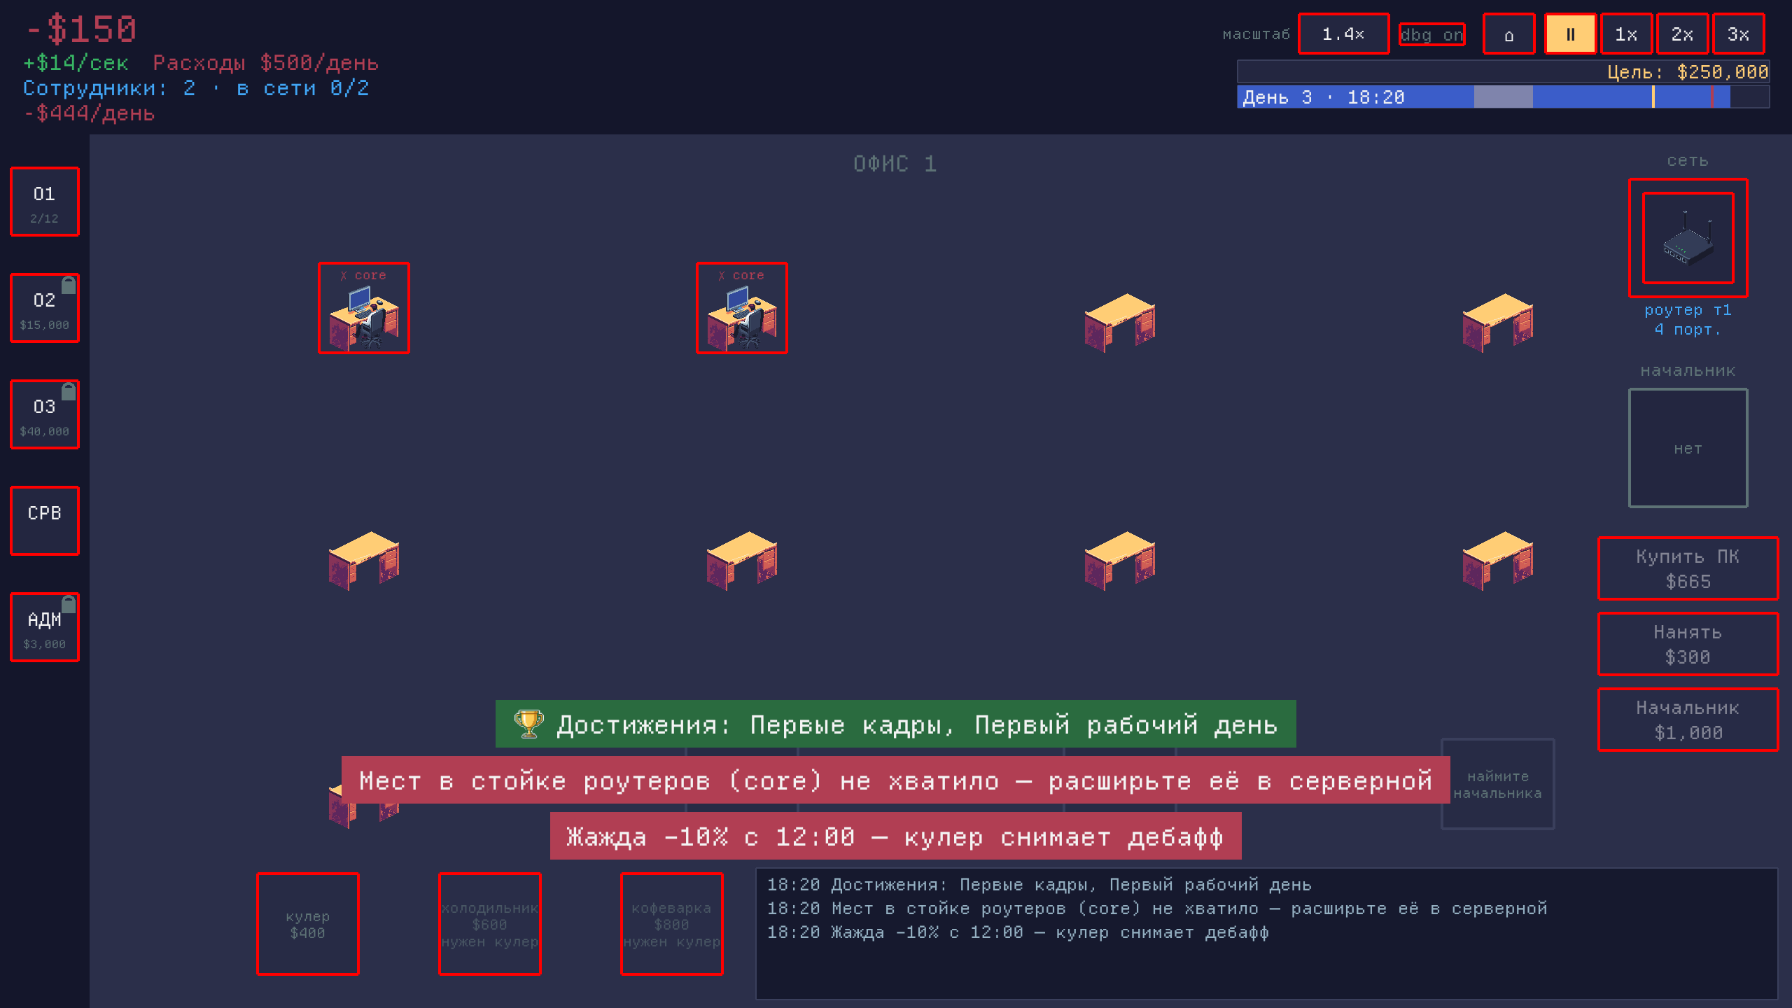
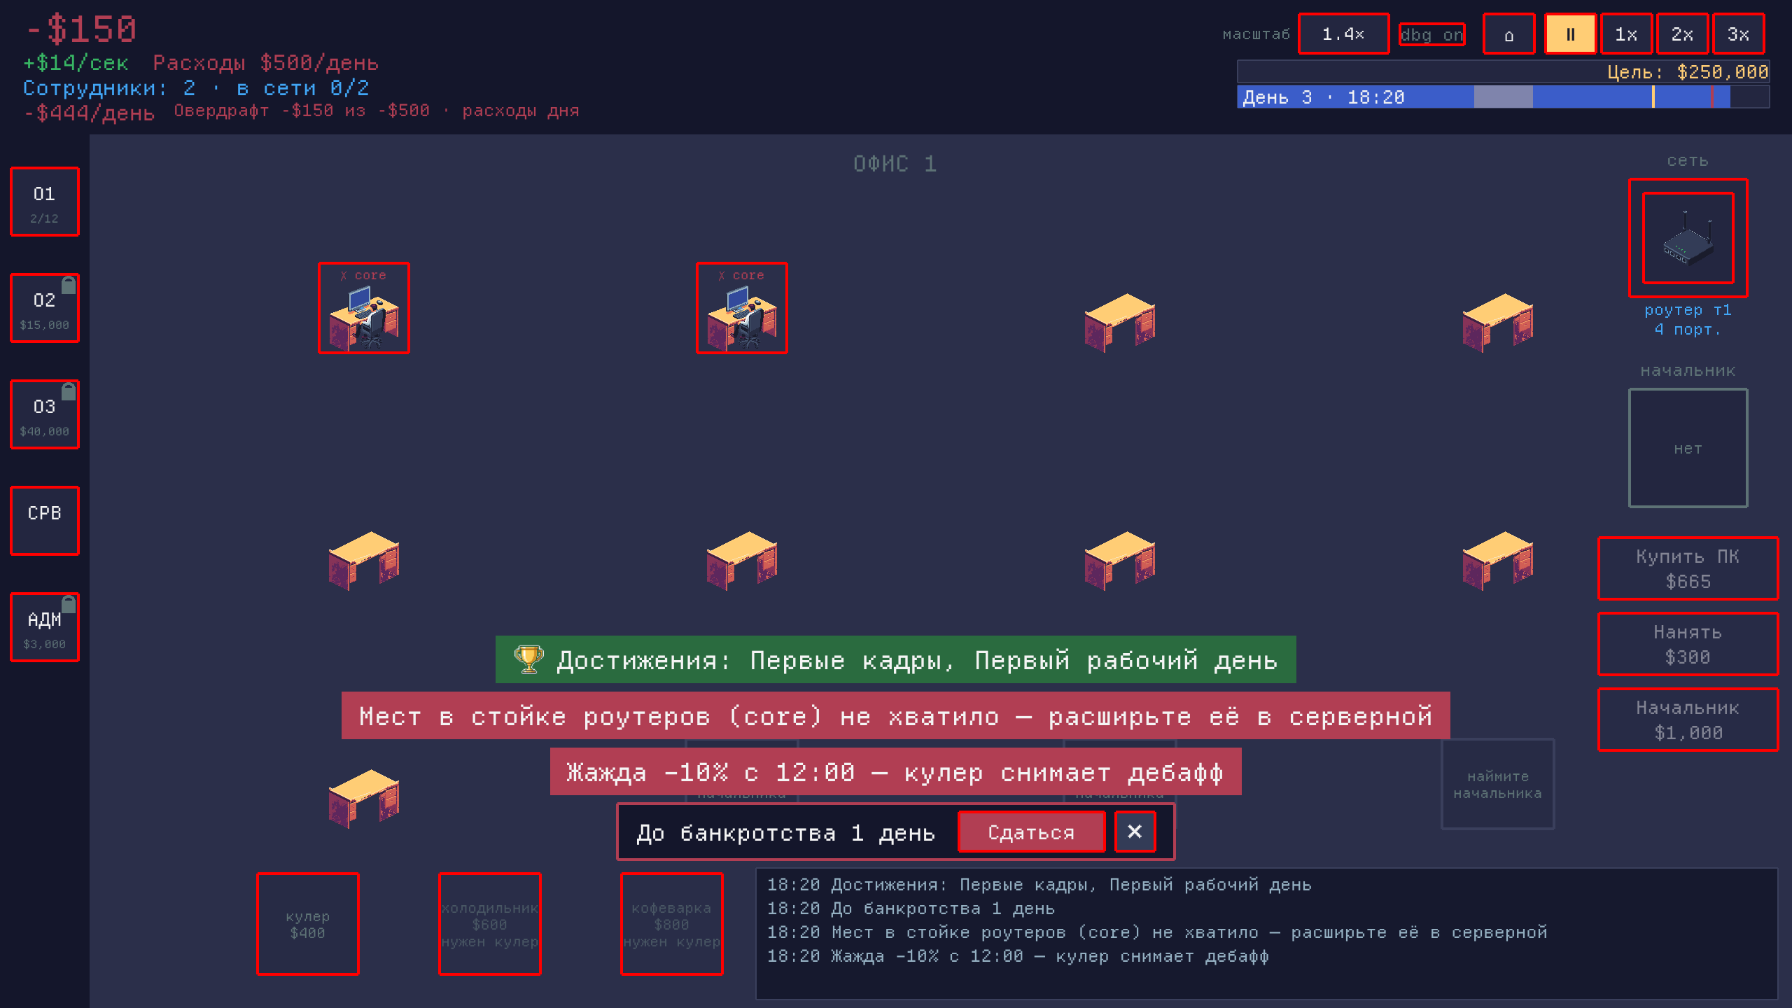
feat(client): the HUD shows the overdraft on Easy and Normal — «Овердрафт -$X из -$Y · расходы дня», and the doom plate counts down to bankruptcy there too — ITGAME-156 (owner 18.10)
hud.debt now reads state.debtLimit (new in protocol.ts): on a credit level the
line is unchanged («Долг -$X из -$Y · R%/день»), on Easy/Normal it is
«Овердрафт -$X из -$Y · расходы дня» with Y equal to the «Расходы $Y/день» row
above it, so the player sees where the limit comes from. The doom plate
(ITGAME-118) already follows state.bankruptInDays, which the server now sends
on every level.

The itd contract is regenerated 65151234bfa3 -> 7f1f8cbb56f0
(StateMessage.debtLimit); itd.state() is unchanged, QA reads
itd.server().snapshot.debtLimit.

qa:doom: D1 also pins the credit line on Hard, D7 is now Normal + doomed_debt
(creditLimit 0, debtLimit 750 = payrollPerDay, N = 1, the plate and the
overdraft line), D8 at -$100 N >= 2 and the line follows, D9 a live evening
from $400 at 18:50 — day_report, «19:00 овердрафт: долг $X из $750 (расходы
дня), без процентов» in hud.log and the report, interest 0, the book balanced
(9/9). qa:hud 429/429, qa:contract 17/17, npm test 30/30.

visreg: broke_day3 re-shot alone (Normal, -$150 at 18:20: the debt line and the
plate «До банкротства 1 день»; overlaps 0, offscreen 0, contrast 17, tiny 16);
the other scenarios are unchanged. development.md gets the qa:doom row in the
QA table. scripts/live-check-difficulty2.mjs checks debtLimit (not run: it needs
a live server).

diff --git a/client/src/scenes/HUDScene.ts b/client/src/scenes/HUDScene.ts
@@ -279,7 +279,7 @@ export class HUDScene extends Phaser.Scene {
         .setOrigin(1, 0),
       'hud.market',
     )
-    // Долг по кредиту (сложность 2.0): виден только в минусе. Строки нижних
+    // Долг (кредит — сложность 2.0, овердрафт — ITGAME-156): виден только в минусе. Строки нижних
     // рядов раскладываются по ширинам в layoutPanel() (ITGAME-16) — стартовые
     // x/y здесь косметические, до первого layoutPanel().
     this.debtText = tag(this.add.text(170, 84, '', {
@@ -899,9 +899,11 @@ export class HUDScene extends Phaser.Scene {
     } else {
       this.marketText.setText('')
     }
-    // Долг: минус в кредитных уровнях — не приговор, но проценты капают.
-    if (s.money < 0 && s.creditLimit > 0) {
-      this.debtText.setText(`Долг ${fmtMoney(s.money)} из ${fmtMoney(-s.creditLimit)} · ${s.creditRatePct}%/день`)
+    // Долг: минус на любом уровне — не приговор до порога state.debtLimit (сервер): на
+    // кредите капают проценты, на овердрафте (легко, норма) порог — расходы дня (ITGAME-156).
+    if (s.money < 0 && s.debtLimit > 0) {
+      const tail = s.creditLimit > 0 ? `${s.creditRatePct}%/день` : 'расходы дня'
+      this.debtText.setText(`${s.creditLimit > 0 ? 'Долг' : 'Овердрафт'} ${fmtMoney(s.money)} из ${fmtMoney(-s.debtLimit)} · ${tail}`)
     } else {
       this.debtText.setText('')
     }
@@ -1020,9 +1022,9 @@ export class HUDScene extends Phaser.Scene {
     this.eventUI = []
   }
 
-  // Плашка обречённой партии (ITGAME-118): сервер шлёт state.bankruptInDays > 0, когда на
-  // уровне с кредитом баланс в минусе (ни купить, ни уволить), а доход не покрывает ФОТ и
-  // проценты. Встаёт раз в день — с первым снапшотом дня, — висит до «×» или «Сдаться»;
+  // Плашка обречённой партии (ITGAME-118): сервер шлёт state.bankruptInDays > 0, когда
+  // баланс в минусе (кредит или овердрафт, ITGAME-156; ни купить, ни уволить), а доход не
+  // покрывает расходы до порога. Встаёт раз в день — с первым снапшотом дня, — висит до «×» или «Сдаться»;
   // отчёт дня, финал и сброс партии её снимают. Не модальная: игра идёт. Стоит над журналом,
   // а не сверху — там панель события; нижние тосты поднимаются над ней (layoutToasts).
   private updateDoom(s: StateMessage) {

diff --git a/client/src/protocol.ts b/client/src/protocol.ts
@@ -145,6 +145,7 @@ export interface StateMessage {
   marketTomorrow: number // завтрашний рынок, виден заранее
   creditLimit: number // кредитный порог, $ (0 — кредита нет)
   creditRatePct: number // процент за день на долг
+  debtLimit: number // порог долга, $: глубже — вечер банкротит; creditLimit или, без кредита, payrollPerDay (овердрафт, ITGAME-156)
   bankruptInDays: number // обречённая партия: банкротство через N закрытий дня, 0 — нет (ITGAME-118)
   virusWaveAt: string // «HH:MM», с которого видна следующая волна вируса; '' — заражённых нет (ITGAME-103)
   antivirus: AntivirusInfo // подписка на антивирус (ITGAME-137)

diff --git a/client/src/debug/contract.gen.ts b/client/src/debug/contract.gen.ts
@@ -2,7 +2,7 @@
 import type { ItdApi, MemberSpec, TypeSpec } from './agentApi'
 export const CONTRACT = {
   "schema": 1,
-  "hash": "ff40383f5600",
+  "hash": "cfd0c425bd91",
   "methods": {
     "version": {
       "kind": "prop",
@@ -3321,6 +3321,11 @@ export const CONTRACT = {
           "type": "number",
           "optional": false,
           "doc": "процент за день на долг"
+        },
+        "debtLimit": {
+          "type": "number",
+          "optional": false,
+          "doc": "порог долга, $: глубже — вечер банкротит; creditLimit или, без кредита, payrollPerDay (овердрафт, ITGAME-156)"
         },
         "bankruptInDays": {
           "type": "number",

diff --git a/docs/development.md b/docs/development.md
@@ -1410,6 +1410,7 @@ client with headless Chromium via the `window.itd`/`window.__itd` facade
 | `npm run qa:buttons` | buy-button enabled/tooltip/alpha states (ITGAME-17); R1–R7 the room action column (ITGAME-94): `btn.pc`/`hire`/`boss` in the `office` scene at x 1142, 128×44, y 384/438/492, no overlap with any office object; the `room.tooltip` sits left of the column; a real mouse click at the `screen()` point buys a PC; under the router window `hit()` fails, `X`, no tooltip; in a locked office the column is hidden and `itd.click` answers `code: 'hidden'`; `btn.gateway` in `serverRoom` at x 1142 y 452; AV1–AV8 the antivirus (ITGAME-137): `btn.antivirus` in `serverRoom` at x 1142 y 506 128×44, a real click opens «Антивирус» with three tiers and «Отключить» disabled (`D`, a click sends nothing), a real click on SOHO Edition sends `set_antivirus` slot 1 (button «Антивирус / SOHO Edition», first seats covered, billed $12), at $10 the current tier and the upgrades are `D` and «Отключить» sends slot 0 with the day still billed $12, a shield per covered seat in the office, the day report line «Антивирус: -$12» | :4180, self-serve |
 | `npm run qa:tabs` | multi-tab session takeover (ITGAME-35); T0 the `Storage.prototype` probe; T1–T2 storage fully blocked (ITGAME-80): «Сохранить и выйти» → «Продолжить» resumes the same sid from tab memory, after a reload no «Продолжить» and a new sid | :4179, self-serve + temp saves dir |
 | `npm run qa:hud` | HUD layout column (left block right ≤ 832 since ITGAME-94, right column left ≥ 848), toast stack, no overlaps (ITGAME-16); goal/day bars G1–G3/D1–D3, tab locks L1–L3, event log E1–E3, onboarding coach O1–O6 (ITGAME-21); `virus_outbreak` V1 «☣ 2»/«☣ 1» under the office tabs, none under О3, V2 a live wave (`virusWaveIn` 1 by `itd.restore`, speed 3) grows the badges to the company total with no wave toast, V3 the day report line «Вирус:     +k ПК за день (−$X)» (ITGAME-138, ITGAME-146), V4 the `hud.log` strip after that report: one time per line, «к вечеру заражено m ПК» with the server's own time, the day summary last (ITGAME-150), no line twice; V5 the strip live (ITGAME-163): «HH:MM вирус в офисе 1: 2 ПК» from `state.dayLog` before any report, «чистим вручную» right after `event_choice`; V6 after `next_day` «10:00 Утро, день N+1» right below the day summary | :4174, self-serve |
+| `npm run qa:doom` | the doomed-party plate (ITGAME-118) and the overdraft (ITGAME-156): D1 Hard + `doomed_debt` — `bankruptInDays` > 0, `hud.doom` «До банкротства N …» with «Сдаться» and ✕, `hud.debt` «Долг -$2,000 из -$5,000 · 10%/день»; D2 a real click on ✕ hides it for the rest of the day; D3 next morning it is back with N − 1; D4 a real click on «Сдаться» → «Удалить партию навсегда?» paused, «Отмена» back with the speed; D5 no overlaps/offscreen; D6 `fresh` — no plate; D7 Normal + `doomed_debt` — `creditLimit` 0, `debtLimit` 750 = `payrollPerDay`, N = 1, «Овердрафт -$2,000 из -$750 · расходы дня»; D8 at −$100 N ≥ 2 and the line follows; D9 a live evening from $400 at tick 53 — `day_report`, «19:00 овердрафт: долг $X из $750 (расходы дня), без процентов» in `hud.log` and the report, `interest` 0, the book balanced | :4188, self-serve, saves off |
 | `npm run qa:facade` | `window.itd` `active`/`log()`/`overlaps()` kind (ITGAME-38); HUD `+X/день` = the day's profit on `mid_day10` (ITGAME-49); `itd.step({ticks})` advances > 10 ticks per call (ITGAME-56); UI-scale ids/cycle and a stored 2× → «по окну»; canvas-vs-window `offscreen()` entry (ITGAME-61); a throwing `localStorage` for `itd.uiScale` neither breaks the load nor the zoom choice (ITGAME-67); ⏸ on pause is an amber block, speed(1) restores it (ITGAME-62); `itd.screen()` on the day report — title, blocker, `X`/`free`/`frame`, `D` on a buy button without money (ITGAME-72), the office's `btn:pc` under the report dim is `X` and `hit()` fails (S2b, ITGAME-94); build stamp and «устарело, обнови» on a faked stand `index.html`, `itd.stale()` (ITGAME-78); `itd.sandbox()`: the owner's shared key survives «Сдаться» and a second party, `fakeOwner()`, `restore()` puts back / keeps (ITGAME-77); `itd.stack()` under the day report: the dimmer wins over `btn.menu`, same as `hit().top` (ITGAME-74); `hit()` and the `X` flag follow the real hit area — a 1×1 hitArea on `btn.next_day` makes it covered (owner 10.10); S4 the exit window's ✕ over the event card stays out of `btn:event:1`'s `screen()` label, H3 a rectangle added in this frame: `stack()` and a same-instant canvas mousedown both miss it, after one `requestAnimationFrame` both get it (ITGAME-113); `itd.play()` on `fresh` (seed 7): hire → hire `FAIL no_free_pc` → day → buy_pc → hire `FAIL not_enough_money` → day with the balances 600>300>614>39>353, `itd.ledger()` books balanced, `adjust` after `itd.set` (ITGAME-73); K1 the office tooltip's text in its hidden container is `visible: false`, K2 «ТУПИК» and the day report give 0 overlaps entries from the dim (22 with the `dim` mark removed) (ITGAME-87); K3 `nodes().fill`, K4 `menuReady` false right after `sandbox.restore()` and the plate still for 1.5 s after it, `stale().shown` false/true/false (ITGAME-88); L1–L3 and L6 storage fully blocked — both getters and `Storage.prototype` throw `SecurityError` (ITGAME-80): the menu loads without «Продолжить», a party starts, the `hire` receipt is ok, «Первые кадры» toasts once, the report pause keeps 3× in tab memory; without `?debug=1` (no `window.itd`) no pageerror and the `2` key starts a party (the «Продолжить» round trip needs saves on disk — it is in `qa:tabs` T1–T2) | :4175, self-serve |
 | `npm run qa:slots` | office/server-room slot rendering — lunch, boss, gateway, router, amenities, racks; `broken_pc`: one zone `office.slot.0` covers the worker and the «✖ чинить k/N» label, real clicks repair 0/3 → 1/3 → 2/3 → repaired, then the same zone motivates; right click and tooltip shared (ITGAME-75/92/93); `virus_outbreak` (ITGAME-138): a real click on «Чистить вручную» closes the card, «☣ вирус 0/3» on seats 1 and 6 only, the plate «☣ вирус: 2 из 9 мест · волна в 12:00», tab badges «☣ 2»/«☣ 1», the zone covers the worker and the label, exactly two lime-blinking zones and no red one, `itd.stack` wins `office.slot.0` at the label and the worker, no overlaps, the tooltip «ЗАРАЖЁН … 0/3», «вирус -30%», «мотивация: после чистки», right click opens the fire dialog and sends nothing, real clicks send `virus_click` 1/3 → 2/3 → clean (zone back to 64×64, plate «1 из 9», badge «☣ 1»), then the zone motivates; a broken infected seat (by `itd.restore`) shows «✖ чинить 0/3» in a red zone, the tooltip «после ремонта вирус останется», clicks send `repair_click`, and after the repair «☣ вирус 0/3» is back; the tooltip hides when the router/fire window opens and stays hidden after a snapshot and `itd.hover` (ITGAME-89); 3в with `?debug=1` frames: under the router window, the HUD exit dialog and the day report no frame of a covered object lies above the dim, every frame sits at its object's depth + 0.5, the window's own buttons are framed above it, also after a snapshot (ITGAME-84); EV1–EV4 the event card: `btn.event.0`/`btn.event.1` framed once each at 41.5 with the frames in `eventUI`, still once after a snapshot rebuilds the card, under the exit dialog's dim 70 together with the header, none left after the event is cleared; OF1–OF4 «Пока вас не было»: the final `btn.offline.menu`, then the ordinary report over it — `btn.offline.continue` framed once at 56.5 and the dim at 55.5 (frames in `offlineUI`, the final window's frames gone), header frames under 55 also after a snapshot, «Продолжить →» leaves no `btn.offline.*` frame or id (ITGAME-97); shelf (`spare_pcs`, no amenities): without a cooler `office.amenity.fridge`/`coffee_machine` are disabled, no hand cursor, «нужен кулер», hover shows «Сначала купите кулер» and real clicks send nothing; a real click on the cooler sends `buy_cooler`, then both cells open and real clicks send `buy_fridge`, `buy_coffee` with no server error (ITGAME-102) | :4177, self-serve |
 | `npm run qa:sprite-try` | `itd.sprite.try/reset/list` (ITGAME-119): a clean swap re-points live objects and reports `sha256`; an off-palette PNG is applied and named in `problems`; a sleeping scene's key; fallback keys stay independent; `unknown_key`/`bad_src`/`bad_size`/`not_tried`; no `crypto.subtle` → `sha256: null`; `reset()` restores the original pixels after two tries; `assets()`/`assetSet()` mark the key `tried`; `{filter: 'linear'}` sets LINEAR on the GL texture, the default stays NEAREST, `bad_filter`, `reset()` brings back NEAREST; the menu `icon_trophy` (ITGAME-83) keeps 16×16 under a 64px try, loads LINEAR as a `render: smooth` key, `try` defaults to linear for it and `assets()` reports it `smooth` with no off-palette colours | :4187, self-serve |
